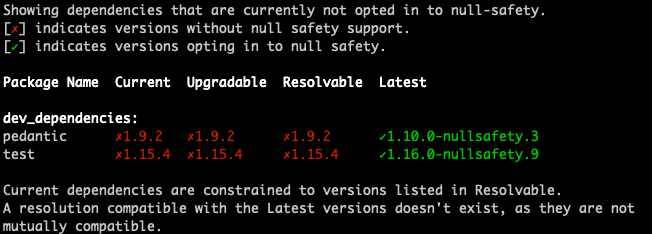
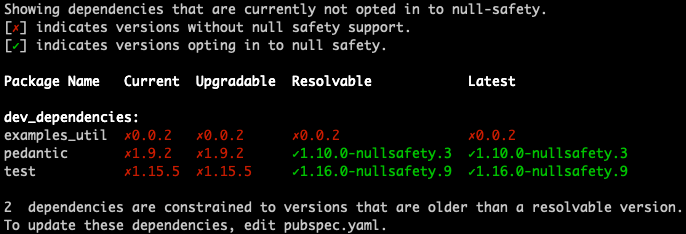
Another draft of the text, another screenshot

diff --git a/src/null-safety/migration-guide.md b/src/null-safety/migration-guide.md
@@ -15,7 +15,7 @@ Here are the basic steps for migrating each package that you own:
 1. **Wait** for the packages
    that you depend on to migrate.
 2. **Migrate** your package's code,
-   preferably using the interactive migration tool (`dart migrate`).
+   preferably using the interactive migration tool.
 3. **Test** to make sure your changes work.
 4. If the package is already on pub.dev,
    **publish** the null-safe version as a **prerelease** version.
@@ -24,9 +24,9 @@ Here are the basic steps for migrating each package that you own:
   **Migrating an app is the same as migrating a package.**
   Before fully migrating an app,
   consider waiting until null safety is in a stable release.
-  In the meantime, you can add migration hints to your app
-  and take the opportunity to refactor your app code.
-  **_[PENDING: is that good/helpful advice?]_**
+  In the meantime, you can learn about null safety,
+  perhaps adding migration hints to your app
+  or refactoring your app code.
 {{ site.alert.end }}
 
 [null safety]: /null-safety
@@ -79,18 +79,17 @@ $ flutter upgrade
 
 [Dart SDK archive]: /tools/sdk/archive#beta-channel
 
-After updating your release,
-update your pubspec to the version of Dart you're using.
+Next, **update your pubspec** to the version of Dart you're using.
 For example, say you're using 2.12.0-18.0.beta:
-**[PENDING: check. Is this really necessary? It caused me grief when I tried to run `dart migrate`.]**
 
 ```terminal
 $ dart --version
-Dart SDK version: 2.12.0-18.0.beta (beta)... [PENDING: check!]
+Dart SDK version: 2.12.0-18.0.beta (beta)... [PENDING: update version string!]
 ```
 
 Update the `pubspec.yaml` file to have that version as a lower constraint:
-**[PENDING: check!!!]**
+***[PENDING: Is it really necessary to match the release?
+Can we just use 2.12.0-0?]***
 
 ```yaml
 environment:
@@ -99,7 +98,7 @@ environment:
 
 
 {{ site.alert.warn }}
-  When you return to working on production code, remember to
+  If you return to working on production code, remember to
   **switch back to a stable release**
   (for example, by running `flutter channel stable`).
 {{ site.alert.end }}
@@ -107,8 +106,8 @@ environment:
 
 ### Check dependency status
 
-Get the migration state of your package's dependencies
-by using the following command:
+Get the migration state of your package's dependencies,
+using the following command:
 
 ```terminal
 $ dart pub outdated --mode=null-safety
@@ -116,31 +115,23 @@ $ dart pub outdated --mode=null-safety
 
 If the output says **all the packages fully support null safety**,
 then you can start migrating.
+Otherwise, use the **Resolvable** column to find
+null-safe releases, if they exist.
 
-Otherwise, check whether you can update to
-package versions that support null safety.
-Many packages have null-safe prerelease versions.
-For example, while the [pedantic package][] stable release was 1.9.2,
-it also had prereleases 1.10.0-nullsafety.1, 1.10.0-nullsafety.2, and so on.
-
-[pedantic package]: {{site.pub-pkg}}/pedantic
-
-As an example, the following image shows that
-if you update your package's dev_dependencies to specify the latest preleases
-(as listed in the **Latest** column),
-you can upgrade to null-safe versions of the `pedantic` and `test` packages.
+For example, in the following output for a simple package,
+the green, checkmarked versions support null safety:
 
 ![Output of dart pub outdated, showing PENDING](/null-safety/pub-outdated-output.png)
 
-**_[PENDING: show before & after for pubspec? a diff view would be great here]_**
+Here are the steps to take before migrating this package to sound null safety:
 
-If you update your pubspec,
-upgrade before checking again for outdated packages:
-
-```terminal
-$ dart pub upgrade
-$ dart pub outdated --mode=null-safety
-```
+1. Wait for `examples_util` to be migrated.
+2. Update `pubspec.yaml` to use the latest compatible releases of
+   `pedantic`, `test`, and `examples_util`
+   (as listed in the **Resolvable** column).
+3. Run `dart pub upgrade`.
+4. Run `dart pub outdated --mode=null-safety` once more,
+   to make sure that all dependencies are null safe.
 
 {{ site.alert.info }}
   **Why do all dependencies need to support null safety?**
@@ -148,10 +139,6 @@ $ dart pub outdated --mode=null-safety
   you can _run your app_ with sound null safety.
   When all dev dependencies support null safety,
   you can _run tests_ with sound null safety.
-
-  **[QUESTION:
-  Aren't there dev dependencies that have nothing to do with testing?
-  E.g. deps you might need for analyzing or building your app?]**
 {{ site.alert.end }}
 
 
@@ -187,27 +174,30 @@ make sure you're using a 2.12 beta release (or later):
 
 ```terminal
 $ dart --version
-Dart SDK version: 2.12.0-18.0.beta (beta)... [PENDING: check!]
+Dart SDK version: 2.12.0-18.0.beta (beta)... [PENDING: check version #/string!]
 ```
 
-Then check your `pubspec.yaml` file:
+Then update your `pubspec.yaml` file:
 
-* **Keep any prerelease package versions** you chose when you
+* **Keep any null-safe package versions** you chose when you
   [checked dependency status](#check-dependency-status) in step 1.
-* If you updated the SDK constraints:
-  1. **Set the minimum SDK version** back to its previous value.
-  **_[PENDING: or is it safer to say a specific version, like 2.11?]_**
-  2. **Run `dart pub get`**.
+* If your package's SDK constraints have a minimum version of 2.12 or higher:
+  1. **Set the minimum SDK version** back to a version before null safety.
+     ```yaml
+environment:
+    sdk: '>=2.11.0 <3.0.0'
+```
+  2. **Update dependencies:**
+     ```terminal
+$ dart pub get
+```
 
-Next, start the tool by running the `dart migrate` command
+Next, start the migration tool by running the `dart migrate` command
 in the directory that contains the package's `pubspec.yaml` file:
 
 ```terminal
 $ dart migrate
 ```
-
-**_[PENDING: what potential outputs should we cover here?
-Is there anywhere we should link to for more info?]_**
 
 If your package is ready to migrate,
 then the tool produces a line like the following:
@@ -260,11 +250,11 @@ Congratulations, your package is migrated!
 
 Manual migration can be the right choice if you
 want to migrate your package incrementally.
-Because Dart supports [mixed-mode programs][],
+Because Dart supports [mixed-version programs][],
 you can migrate one library (generally one Dart file) at a time,
 while still being able to run your app and its tests.
 
-[mixed-mode programs]: /guides/language/evolution#mixed-mode-programs
+[mixed-version programs]: /go/unsound-null-safety
 
 We recommend that you **first migrate leaf libraries** —
 libraries that don't import other files from the package.
@@ -280,7 +270,6 @@ and then migrating simple files that depend only on `util.dart`.
 If any libraries have cyclic imports
 (for example, A imports B which imports C, and C imports A),
 consider migrating those libraries together.
-**_[PENDING: is everyone OK with those recommendations and examples?]_**
 
 To migrate a package by hand, follow these steps:
 
@@ -288,10 +277,10 @@ To migrate a package by hand, follow these steps:
    setting the language version to 2.12 beta or later:
    ```yaml
 environment:
-  sdk: '>=2.12.0-18.0.beta <3.0.0'
+  sdk: '>=2.12.0-18.0.beta <3.0.0' [PENDING: check version; would 2.12.0-0 work?]
 ```
 
-2. Run `dart pub get`. <br>
+2. Update dependencies: <br>
    ```terminal
 $ dart pub get
 ```
@@ -313,8 +302,8 @@ $ dart pub get
 ```
 
    Using language version 2.9 for a library that's in a 2.12 package
-   enables mixed mode and can reduce analysis errors (red squiggles).
-   However, **mixed mode reduces the
+   can reduce analysis errors (red squiggles) if you disable sound null safety.
+   However, **unsound null safety reduces the
    information the analyzer can use.**
    For example, the analyzer might assume a
    parameter type is non-nullable,
@@ -326,11 +315,6 @@ $ dart pub get
    to improve your code and eliminate static errors.
 
 [language version comment]: /guides/language/evolution#per-library-language-version-selection
-
-**_[PENDING: Do we need to talk about `pub get` generating a [package config][]?
-That link isn't as helpful as it could be.
-Should/do we cover this on dart.dev?]_**
-
 [package config]: https://pub.dev/packages/package_config
 
 
@@ -339,15 +323,14 @@ Should/do we cover this on dart.dev?]_**
 If you already have tests, run them.
 You might need to update tests that expect null values.
 
-**_[PENDING:
-See [Experimenting with null safety in Flutter](https://github.com/flutter/flutter/wiki/Experimenting-with-null-safety-in-Flutter)
-for details (on testing and otherwise; it's sort of this doc, but for pre-beta.
-]_**
+If your package and its dependencies aren't completely null safe,
+then see [Unsound null safety](/go/unsound-null-safety)
+for help on running and testing mixed-version code.
 
 
 ## 4. Publish your code {#step4-publish}
 
-We encourage you to publish non-app packages as prereleases
+We encourage you to publish packages as prereleases
 as soon as you migrate.
 
 {{ site.alert.note }}
@@ -358,7 +341,7 @@ as soon as you migrate.
 
 If your package is already on pub.dev, publish it as a prerelease:
 
-* [Set the SDK constraints.](#sdk-constraints)
+* [Set the SDK constraints to the tested beta version.](#sdk-constraints)
 * [Set the package version to indicate a breaking change and
   include a `nullsafety` suffix.](#version)
 
